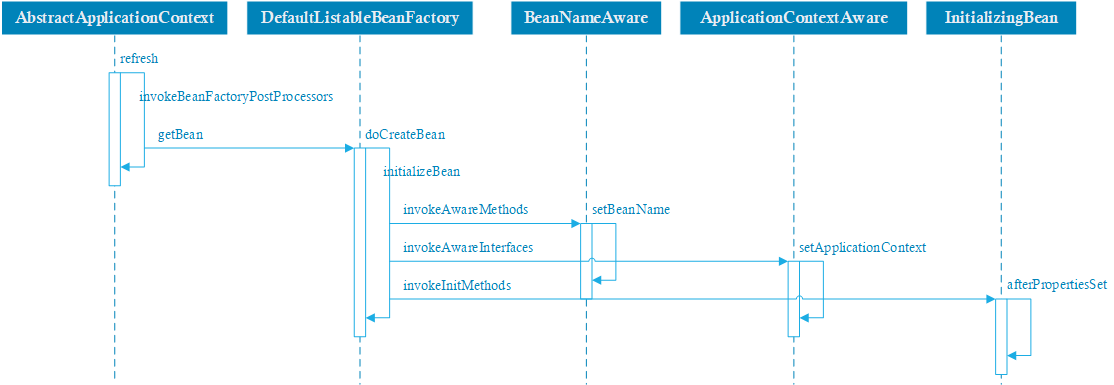
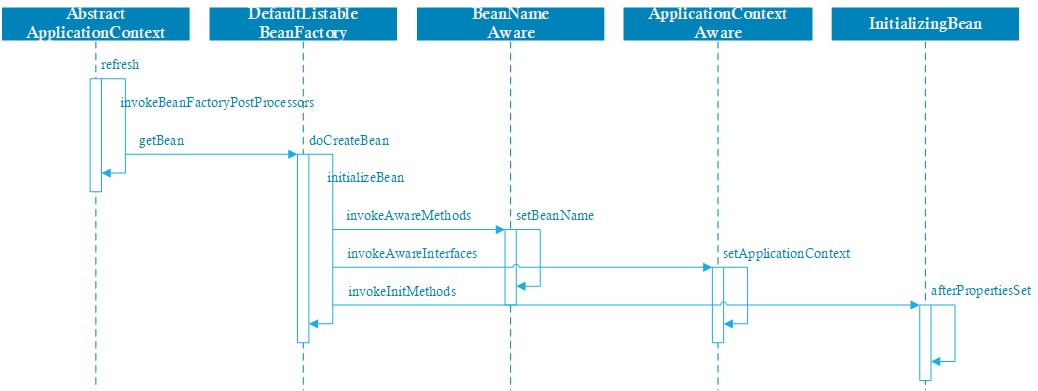
更新ioc时序图

Changed region(s): [[0.0, 0.0, 1.0, 0.9662]]

diff --git a/spring-example-ioc/README.md b/spring-example-ioc/README.md
@@ -1,33 +1,15 @@
 # Spring - IOC 控制反转
 
-#### 初始化
+#### AbstractApplicationContext
 
-```text
-ClassPathXmlApplicationContext
+![ioc](ioc.png)
 
-AbstractApplicationContext.refresh -> refreshBeanFactory
-AbstractRefreshableApplicationContext.refreshBeanFactory -> loadBeanDefinitions
-AbstractXmlApplicationContext.loadBeanDefinitions
+#### ClassPathXmlApplicationContext
 
-AbstractBeanDefinitionReader.loadBeanDefinitions
-XmlBeanDefinitionReader.doLoadBeanDefinitions -> registerBeanDefinitions
+![ioc](ioc-2.png)
 
-BeanDefinitionDocumentReader.registerBeanDefinitions -> doRegisterBeanDefinitions -> parseBeanDefinitions -> processBeanDefinition
+#### ClassPathXmlApplicationContext
 
-BeanDefinitionParserDelegate.parseBeanDefinitionElement -> parsePropertyValue
-```
-
-#### 注入依赖
-
-```text
-ClassPathXmlApplicationContext
-
-AbstractApplicationContext.finishBeanFactoryInitialization
-
-ConfigurableListableBeanFactory.preInstantiateSingletons
-DefaultListableBeanFactory.preInstantiateSingletons -> getBean -> getSingleton
-
-AbstractAutowireCapableBeanFactory.createBean -> doCreateBean -> createBeanInstance
-```
+![ioc](ioc-3.png)
 
 *PS：本文使用的是spring-4.3.7.RELEASE*
